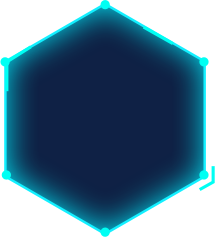
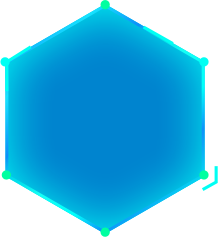
修改左侧菜单样式

diff --git a/src/app/share/biz-component/left-hexagon/left-hexagon.component.less b/src/app/share/biz-component/left-hexagon/left-hexagon.component.less
@@ -1,47 +1,128 @@
 .column-left {
-  flex-direction: column;
   width: 220px;
-}
-
-.column-left div {
+  padding-top: 36px;
   position: relative;
-  width: 134px;
-  height: 146px;
-  font-family: PangMenZhengDao;
-  font-size: 18px;
-  color: #FFFFFF;
-  letter-spacing: 0;
-  text-align: center;
-  background-size: cover;
-  cursor: pointer;
-}
 
-.column-left div p {
-  width: 108px;
-  position: absolute;
-  left: 50%;
-  top: 50%;
-  -webkit-transform: translate(-50%, -50%);
-  transform: translate(-50%, -50%);
+  .block-wrap {
+    box-shadow: inset 0 0 20px 0 rgba(107, 253, 255, 0.42);
+    border-left: 1px solid #1edaff;
+    border-right: 1px solid #1edaff;
+    border-bottom: 1px solid #1edaff;
+    flex-direction: column;
+    display: flex;
+    justify-content: center;
+    align-items: center;
+    min-height: 545px;
+    padding-top: 35px;
+
+    div {
+      position: relative;
+      width: 118px;
+      height: 125px;
+      font-family: PangMenZhengDao;
+      font-size: 18px;
+      color: #FFFFFF;
+      letter-spacing: 0;
+      text-align: center;
+      background-size: 100% 100%;
+      cursor: pointer;
+      display: flex;
+      flex-direction: column;
+      align-items: center;
+      justify-content: center;
+
+      .block-img {
+        display: block;
+        width: 35px;
+      }
+    }
+
+    .ul-wrap {
+      width: 88%;
+      height: 100%;
+      display: flex;
+      justify-content: space-between;
+      flex-direction: column;
+      min-height: 545px;
+      margin-top: -20px;
+
+      li {
+        background: #0155AD;
+        border-radius: 6px;
+        opacity: 0.6;
+        font-family: lianmengqiyilushuaizhengruiheiti-Regular;
+        font-size: 20px;
+        color: #3BD7FF;
+        letter-spacing: 0;
+        text-align: center;
+        cursor: pointer;
+
+        &:hover {
+          color: white;
+          background: url("../../../../assets/imgs/new-img/left-dept-bg.png") no-repeat;
+          background-size: 100% 100%;
+          opacity: 1;
+        }
+
+        &.active {
+          color: white;
+          background: url("../../../../assets/imgs/new-img/left-dept-bg.png") no-repeat;
+          background-size: 100% 100%;
+          opacity: 1;
+        }
+      }
+    }
+
+  }
+
+  .column-left-tab {
+    position: absolute;
+    top: 0;
+    left: 0;
+    height: 36px;
+    width: 100%;
+    display: flex;
+    font-size: 20px;
+    align-items: center;
+    justify-content: center;
+
+    .tab {
+      flex: 1;
+      text-align: center;
+      background: #0155AD;
+      color: #3BD7FF;
+      height: 100%;
+      cursor: pointer;
+      user-select: none;
+      font-family: lianmengqiyilushuaizhengruiheiti-Regular;
+      letter-spacing: 2px;
+
+      &.active {
+        background: #00DEB3;
+        color: #FFFFFF;
+      }
+    }
+  }
 }
 
 .column-left .sub-left {
   background: url("../../../../assets/imgs/new-img/un-left.png") no-repeat;
-  background-size: cover;
+  background-size: 100% 100%;
 }
 
 .column-left .sub-right {
   background: url("../../../../assets/imgs/new-img/un-right.png") no-repeat;
-  background-size: cover;
+  background-size: 100% 100%;
 }
 
 .displacement {
-  margin-left: 66px;
-  margin-top: -42px;
+  margin-top: -35px;
+  margin-left: 70px;
 }
 
 .move {
-  margin-top: -42px;
+  margin-left: -50px;
+  margin-top: -35px;
 }
 
 .column-left div {

diff --git a/src/app/share/biz-component/left-hexagon/left-hexagon.component.ts b/src/app/share/biz-component/left-hexagon/left-hexagon.component.ts
@@ -25,22 +25,25 @@ import {bounceInOnEnterAnimation, lightSpeedInOnEnterAnimation} from 'angular-an
 export class LeftHexagonComponent implements OnInit, AfterViewInit {
   @Input() nameArray: string[];
   @Output() clickReturn: EventEmitter<string>;
+  isClickLeft: boolean;
 
   constructor(public element: ElementRef, private renderer2: Renderer2) {
     this.nameArray = [];
     this.clickReturn = new EventEmitter<string>();
+    this.isClickLeft = true;
   }
 
   trackFunc = (index, item) => {
     return index;
   }
 
-
-  ngOnInit(): void {
+  changeTab(isProcess = true) {
+    this.isClickLeft = isProcess;
   }
 
-  ngAfterViewInit(): void {
-    const temp = this.element.nativeElement.querySelectorAll('.column-left div');
+  // 应急流程下六边形点击
+  leftBlockClick() {
+    const temp = this.element.nativeElement.querySelectorAll('.column-left .block');
     for (let i = 0; i < temp.length; i++) {
       const odd = i % 2;
       const mouseClick = fromEvent(temp[i], 'click');
@@ -59,6 +62,30 @@ export class LeftHexagonComponent implements OnInit, AfterViewInit {
         this.clickReturn.emit(returnStr);
       });
     }
+  }
+
+  // 应急厅下每个选项卡点击
+  leftDeptClick() {
+    const temp = this.element.nativeElement.querySelectorAll('.ul-item');
+    // tslint:disable-next-line:prefer-for-of
+    for (let i = 0; i < temp.length; i++) {
+      const mouseClick = fromEvent(temp[i], 'click');
+      const subscription = mouseClick.subscribe(() => {
+        // tslint:disable-next-line:prefer-for-of
+        for (let j = 0; j < temp.length; j++) {
+          this.renderer2.removeClass(temp[j], 'active');
+        }
+        this.renderer2.addClass(temp[i], 'active');
+      });
+    }
+  }
+
+  ngOnInit(): void {
+  }
+
+  ngAfterViewInit(): void {
+    this.leftDeptClick();
+    this.leftBlockClick();
   }
 
 }

diff --git a/src/app/share/biz-component/left-hexagon/left-hexagon.component.html b/src/app/share/biz-component/left-hexagon/left-hexagon.component.html
@@ -1,6 +1,32 @@
 <div class="column-left" [@bounceInOnEnter]="{ value: '', params: { duration: 1000 }}">
-  <div *ngFor="let item of nameArray;let i=index;let f=first;let l=last;let e=even;let o=odd;trackBy:trackFunc"
-       [ngClass]="{'sub-right displacement' : o,'sub-left' : e,'move' : e&&!f,'column-div-left-clicked':f}"><p
-    [innerHTML]="item"></p></div>
+  <div class="column-left-tab">
+    <div class="tab" (click)="changeTab()" [ngClass]="{'active':isClickLeft}">应急流程</div>
+    <div class="tab" (click)="changeTab(false)" [ngClass]="{'active':!isClickLeft}">应急厅</div>
+  </div>
+  <div class="block-wrap" [hidden]="!isClickLeft">
+    <div class="block"
+         *ngFor="let item of nameArray;let i=index;let f=first;let l=last;let e=even;let o=odd;trackBy:trackFunc"
+         [ngClass]="{'sub-right displacement' : o,'sub-left' : e,'move' : e,'column-div-left-clicked':f}">
+      <img class="block-img" src="../../../../assets/imgs/new-img/burning.svg" alt="">
+      <p [innerHTML]="item"></p></div>
+  </div>
+  <div class="block-wrap" [hidden]="isClickLeft">
+    <ul class="ul-wrap">
+      <li class="ul-item">厅长</li>
+      <li class="ul-item">厅长</li>
+      <li class="ul-item">厅长</li>
+      <li class="ul-item">厅长</li>
+      <li class="ul-item">厅长</li>
+      <li class="ul-item">厅长</li>
+      <li class="ul-item">厅长</li>
+      <li class="ul-item">厅长</li>
+      <li class="ul-item">厅长</li>
+      <li class="ul-item">厅长</li>
+      <li class="ul-item">厅长</li>
+      <li class="ul-item">厅长</li>
+    </ul>
+  </div>
+
+
 </div>
 

diff --git a/src/app/pages/main/home/accident-disaster/hazardous/hazardous-one/hazardous-one.component.ts b/src/app/pages/main/home/accident-disaster/hazardous/hazardous-one/hazardous-one.component.ts
@@ -76,32 +76,21 @@ export class HazardousOneComponent implements OnInit {
     if (this.loginInfo.role === UserRole.User) {
       this.nameArray = [
         '启动应急响应',
-        '组建现场<br/>指挥部',
-        '分组开展<br/>应急救援工作',
-        '现场信息采集',
-        '应急保障',
+        '成立指挥部',
+        '开展应急救援',
         '事态控制',
-        '善后处理<br/>与事故调查'
+        '应急结束'
       ];
       this.getCurrentLeftName('启动应急响应');
     } else if (this.loginInfo.role === UserRole.Manage) {
       this.nameArray = [
-        '省级接警',
-        '预警监测',
-        '信息研判',
-        '信息上报',
-        '先期处置',
         '启动应急响应',
-        '分组开展<br/>应急救援工作',
-        '救援力量<br/>调度及保障',
-        '应急物资<br/>调度及保障',
-        '通信电力<br/>保障方案',
-        '现场信息采集',
-        '辅助指挥<br/>决策信息',
+        '成立指挥部',
+        '开展应急救援',
         '事态控制',
-        '善后处理<br/>与事故调查'
+        '应急结束'
       ];
-      this.getCurrentLeftName('省级接警');
+      this.getCurrentLeftName('启动应急响应');
     }
     // 页面初始化时获取的岗位职责信息
     // this.getSelId(this.firstSelTabThreeLevelId || this.firstSelTabTwoLevelId || this.firstSelTabOneLevelId);

diff --git a/src/assets/styles/layout.less b/src/assets/styles/layout.less
@@ -153,7 +153,7 @@ h1, h2, h3, h4, h5, h6 {
 .column-lay {
   display: flex;
   margin-top: 2%;
-  justify-content: flex-start;
+  justify-content: space-around;
   align-items: flex-start;
 }
 
@@ -213,7 +213,7 @@ h1, h2, h3, h4, h5, h6 {
 
 .column-right {
   flex-direction: row;
-  width: 80vw;
+  width: 78vw;
   min-height: 580px;
   background: url("../../assets/imgs/new-img/tab-content.png") no-repeat;
   background-size: 100% 100%;
